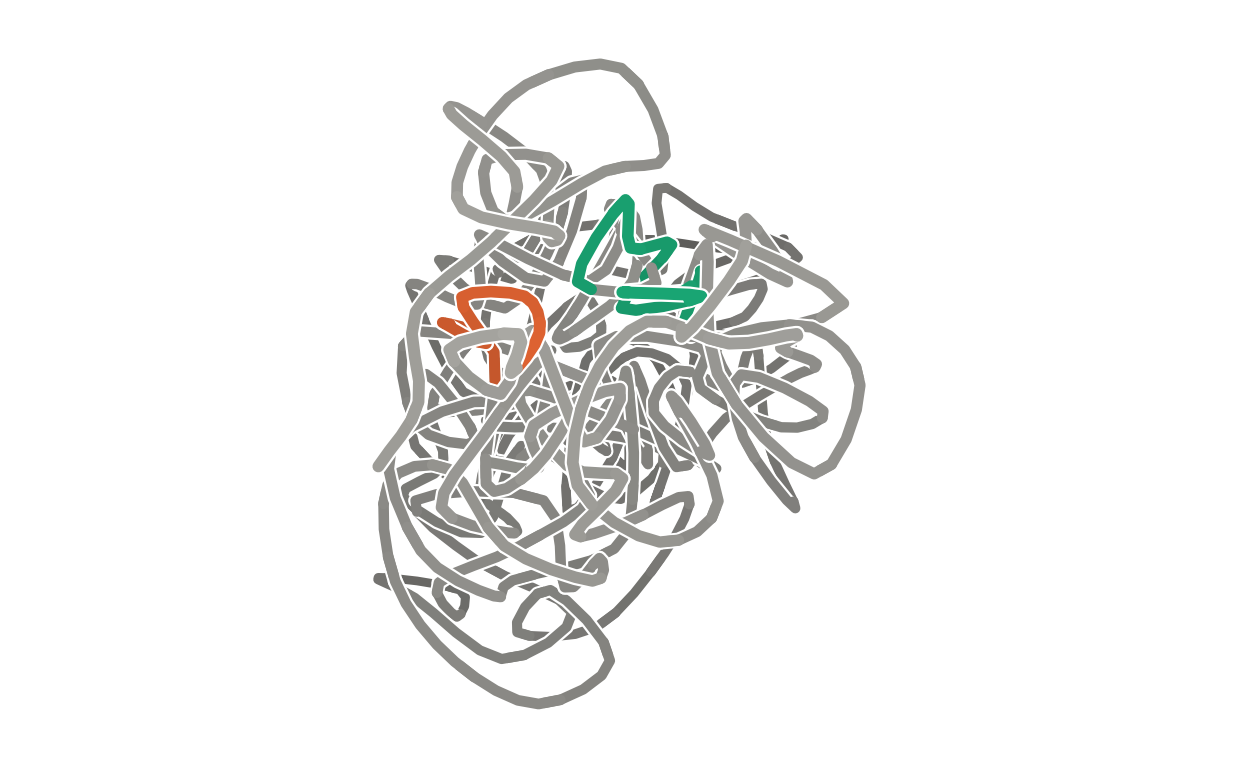
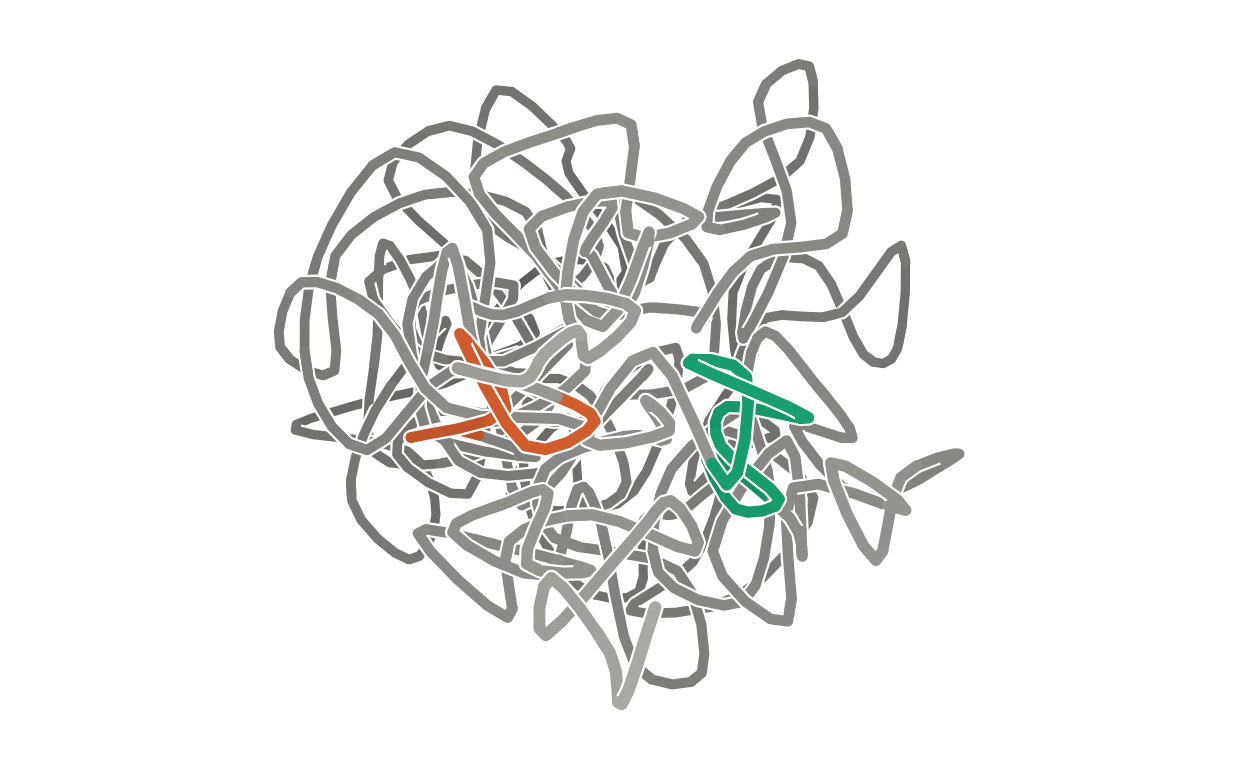
web: the GCSAM drawings of the title page come from the jobs of the public site
The two jobs of the example on the public site are other runs than those of the trial
site and give other numbers: 3.2 +- 0.6 bead units with CTCF and RNAPII loops and
5.7 +- 2.4 with CTCF loops alone, ten structures each, Welch p 0.01. The trial runs
gave 3.5 +- 0.5 and 5.8 +- 0.8. A job of the site does not fix its seed, and ten
structures leave this much between two runs.

The drawings, the picture at the top and its places are drawn again from the jobs the
example opens, 5e570b61fbdeebf0 and 01a9288b172401ea.

Changed region(s): [[0.2149, 0.0625, 0.7674, 0.9375], [0.7674, 0.5625, 0.7981, 0.5938]]

diff --git a/web/frontend/src/pages/Title.test.tsx b/web/frontend/src/pages/Title.test.tsx
@@ -73,16 +73,16 @@ describe('Title page', () => {
   it('draws the locus with and without the RNAPII loop in one card, each with its distance', () => {
     renderTitle()
     const card = screen.getByRole('button', { name: /GCSAM with and without its RNAPII loop/ })
-    expect(within(card).getByRole('img', { name: /CTCF and RNAPII loops.*3\.5 ± 0\.5 bead units apart/ })).toBeInTheDocument()
-    expect(within(card).getByRole('img', { name: /CTCF loops alone.*5\.8 ± 0\.8 bead units apart/ })).toBeInTheDocument()
-    expect(card).toHaveTextContent('3.5 ± 0.5 bead units with the loop and 5.8 ± 0.8 with CTCF loops alone')
+    expect(within(card).getByRole('img', { name: /CTCF and RNAPII loops.*3\.2 ± 0\.6 bead units apart/ })).toBeInTheDocument()
+    expect(within(card).getByRole('img', { name: /CTCF loops alone.*5\.7 ± 2\.4 bead units apart/ })).toBeInTheDocument()
+    expect(card).toHaveTextContent('3.2 ± 0.6 bead units with the loop and 5.7 ± 2.4 with CTCF loops alone')
   })
 
   it('marks A, B and the distance on the picture at the top', () => {
     renderTitle()
     const art = screen.getByRole('img', { name: /A 3D structure of the GCSAM locus/ })
-    expect(art).toHaveTextContent('3.5 ± 0.5')
-    expect(screen.getByText('A to B 3.5 ± 0.5 bead units')).toBeInTheDocument()
+    expect(art).toHaveTextContent('3.2 ± 0.6')
+    expect(screen.getByText('A to B 3.2 ± 0.6 bead units')).toBeInTheDocument()
     expect(screen.queryByText(/stay private/)).toBeNull()
   })
 
